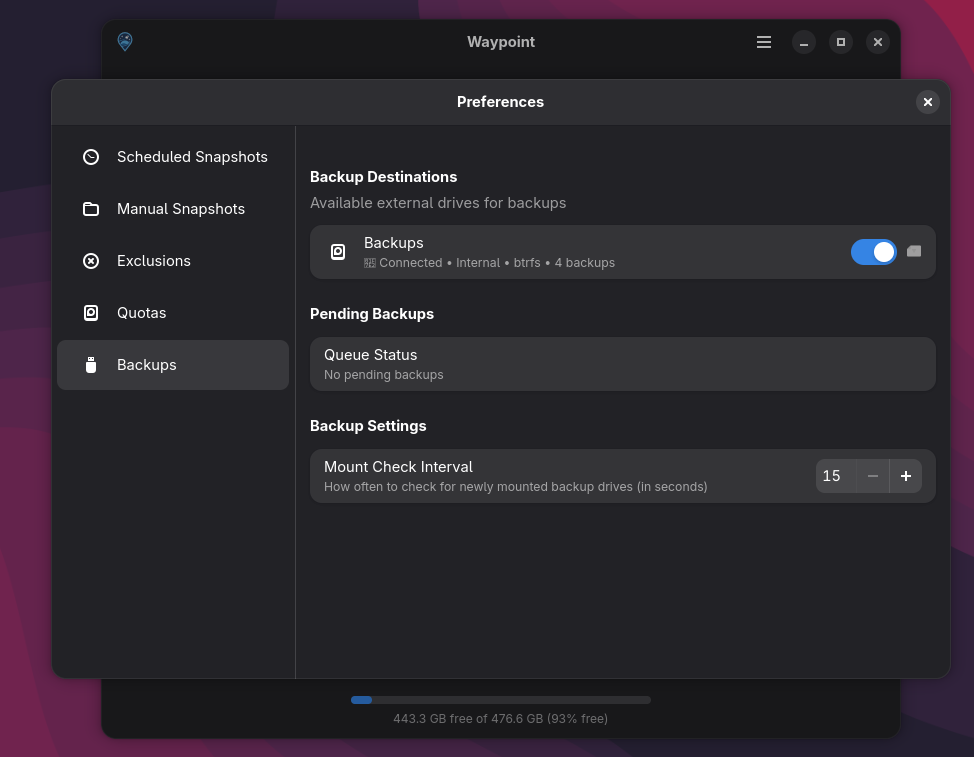
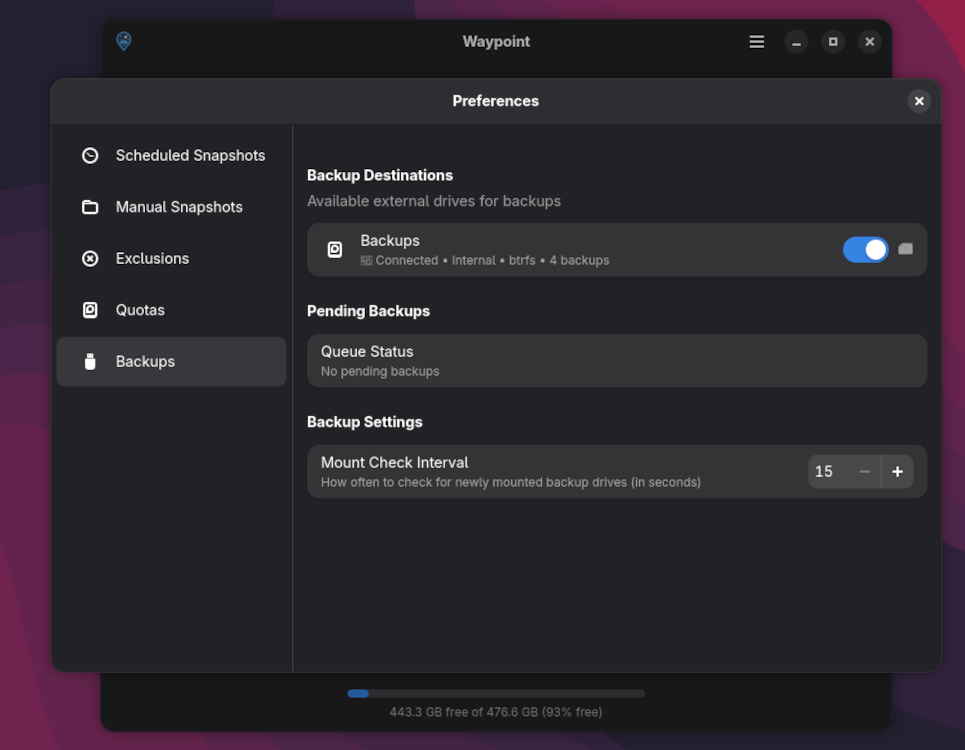
Updated README and screenshots.

diff --git a/README.md b/README.md
@@ -4,9 +4,9 @@
 ![License: MIT](https://img.shields.io/badge/License-MIT-green.svg)
 ![Platform](https://img.shields.io/badge/platform-Void%20Linux-478061?logo=linux)
 
-Waypoint is a GTK/libadwaita snapshot and rollback tool with a built in scheduling service for Btrfs filesystems on Void Linux. For a complete walkthrough, see the [User Guide →](docs/USER_GUIDE.md)
+Waypoint is a GTK/libadwaita snapshot and rollback tool with a built in scheduling service for Btrfs filesystems on Void Linux. For a complete walkthrough, see the [User Guide](docs/USER_GUIDE.md)
 
-For Void Linux users, Waypoint integration is available on [Nebula](https://github.com/Letdown2491/nebula-gtk) >= 1.3.0 to automatically create system snapshots when performing system upgrades.
+Waypoint integration is available on [Nebula](https://github.com/Letdown2491/nebula-gtk) >= 1.3.0 to automatically create system snapshots when performing system upgrades.
 
 ## Screenshots
 
@@ -35,7 +35,7 @@ For Void Linux users, Waypoint integration is available on [Nebula](https://gith
 - **Modern Interface** - GTK4 + libadwaita UI with theme switching, real-time monitoring, and comprehensive CLI tools
 - **Security First** - Privilege-separated architecture with D-Bus, Polkit, audit logging, and input validation
 
-[See full feature list →](docs/FEATURES.md)
+[See full feature list](docs/FEATURES.md)
 
 ## Integration
 
@@ -98,7 +98,7 @@ waypoint-cli quota enable --simple
 waypoint-cli quota set-limit 100G
 ```
 
-[See complete CLI reference →](docs/CLI.md)
+[See complete CLI reference](docs/CLI.md)
 
 ## Scheduler Service
 
